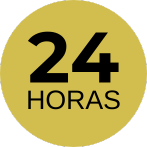
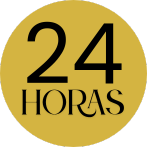
Gold

Changed region(s): [[0.1361, 0.5986, 0.8435, 0.8163], [0.1633, 0.1361, 0.4626, 0.5714], [0.4898, 0.1361, 0.8435, 0.5714]]

diff --git a/index.html b/index.html
@@ -1,7 +1,7 @@
 <!DOCTYPE html>
 <html lang="es">
     <head>
-        <title> 🪙 ROYALE 💎 CASINO 🎰 </title>
+        <title> 🎰 CASINO 💎 GOLD 🪙 </title>
         <meta charset="UTF-8">
         <meta name="viewport" content="width=device-width, initial-scale=1">
         <link href="https://cdn.jsdelivr.net/npm/bootstrap@5.3.3/dist/css/bootstrap.min.css" rel="stylesheet" integrity="sha384-QWTKZyjpPEjISv5WaRU9OFeRpok6YctnYmDr5pNlyT2bRjXh0JMhjY6hW+ALEwIH" crossorigin="anonymous">
@@ -33,7 +33,7 @@
         <div class="contenedor">
             <div class="content">
                 <div class="contentLogo mt-5 mb-3">	
-                    <img src='assets/logo.jpg' width='200' height='150'>		
+                    <img src='assets/titulo.png' width='300' height='120'>		
                 </div>
                 <div class="contentTitulo">	
                     <div class='contentBanner mb-2'>
@@ -85,14 +85,14 @@
                 </div>
                 <div class=bono>
                     <div id=leyenda class="leyenda animate__animated animate__zoomIn animate__infinite">
-                    <p><b>TODOS LOS DIAS<br>20% EN TU PRIMERA CARGA</b></p>	
+                    <p><b>TODOS LOS DIAS<br>10% EN TU PRIMERA CARGA</b></p>	
                     <p>Minimo de carga <b>$1.000</b></p>
                 </div>
             </div>
         </div>
         <div class="containerLista">	 
             <div class="containerItem mt-3">
-                <img src='assets/pay.png'  width='70px' height='70px'>	
+                <img src='assets/payway2.png'  width='70px' height='70px'>	
                 <p>Aceptamos transferencias de <br>cualquier banco, CBU o CVU.</p>
             </div>
             <div class="containerItem mt-3">

diff --git a/css/styles.css b/css/styles.css
@@ -12,7 +12,7 @@ body {
   justify-content: center;
   align-items: center;
   flex-direction: column;
-  background-image: url("../assets/fondo.jpg");
+  background-image: url("../assets/background.png");
   background-repeat: no-repeat;
   background-position: center center;
   background-size: cover;
